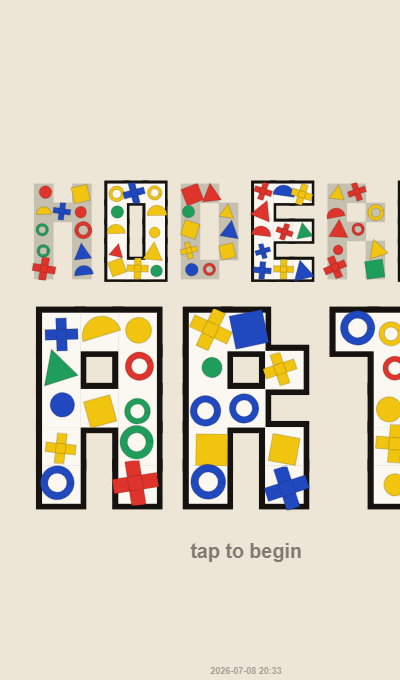
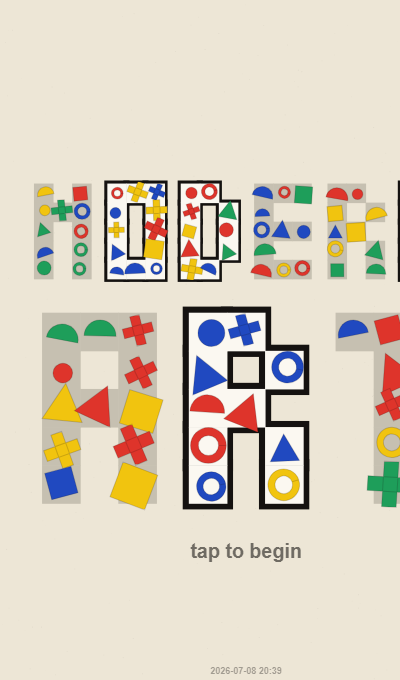
tweaks

Changed region(s): [[0.06, 0.2471, 1.0, 0.7721]]

diff --git a/index.html b/index.html
@@ -118,11 +118,11 @@ function variety(){ var s={},n=0; for(var i=0;i<S.art.length;i++){ s[S.art[i].mi
 
 /* ---------- placement ---------- */
 function pickPlace(){
-  var idx=curShapes(), cell=S.order[idx%S.order.length];
-  var fx=L.frame.x+(cell[0]+0.5+(Math.random()-0.5)*0.4)/4*L.frame.w;
-  var fy=L.frame.y+(cell[1]+0.5+(Math.random()-0.5)*0.4)/5*L.frame.h;
   var base=Math.min(L.frame.w/4,L.frame.h/5);
-  return {x:fx,y:fy,s:base*(0.6+Math.random()*0.5)};
+  var s=base*(0.18+Math.random()*1.15);
+  var fx=L.frame.x + s + Math.random()*(L.frame.w - 2*s);
+  var fy=L.frame.y + s + Math.random()*(L.frame.h - 2*s);
+  return {x:fx,y:fy,s:s};
 }
 function commitArt(f){ S.art.push({k:f.kind,x:f.tx,y:f.ty,mix:f.mix,s:f.s,rot:f.rot,t:0,pattern:f.pattern}); spawnGlint(f.tx,f.ty,f.mix[0].col); }
 